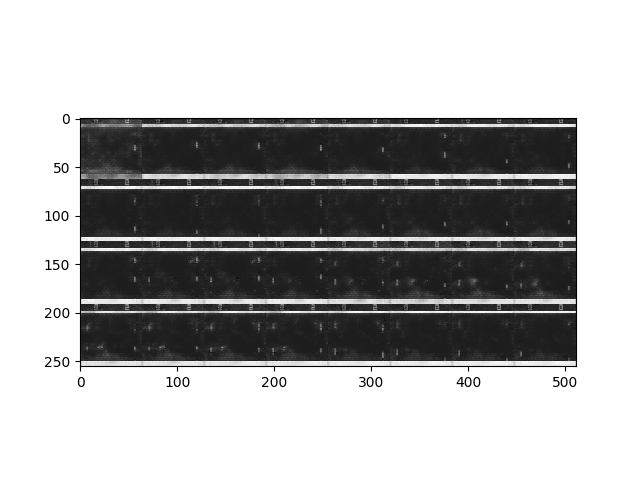
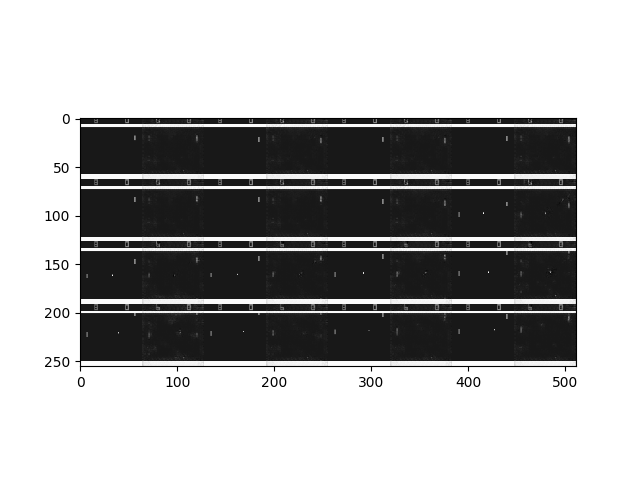
reconstruction

diff --git a/3dvae/3dvae.py b/3dvae/3dvae.py
@@ -42,7 +42,7 @@ def get_encodings(frames,model):
     return np.array([np.array(enc[i:i+32]).reshape([128,32,1]) for i in range(len(frames)-31)])
 
 def decode_seq():
-    frames = log_run(32)
+    frames = log_run(500)[-32:]
     ae = VanillaAutoencoder([None,64,64,1], 1e-3, batch_size, latent_dim)
     encodings = get_encodings(frames,ae) # [1,128,32,1]
 
@@ -52,10 +52,11 @@ def decode_seq():
     rec_frames = ae.generator(rec_enc.reshape([32,128])).reshape([32,64,64])
 
     fig = plt.figure()
-    rec_imgs = np.empty((4*h,8*w))
+    rec_imgs = np.empty((4*h,2*4*w))
     for i in range(4):
-        for j in range(8):
-            rec_imgs[i*h:(i+1)*h,j*w:(j+1)*w] = rec_frames[8*i+j]
+        for j in range(4):
+            rec_imgs[i*h:(i+1)*h,2*j*w:(2*j+1)*w] = frames[4*i+j].reshape((64,64))
+            rec_imgs[i*h:(i+1)*h,(2*j+1)*w:(2*j+2)*w] = rec_frames[4*i+j]
     plt.imshow(rec_imgs, cmap='gray')
     plt.savefig('rec_frames.png')
     plt.close(fig)
@@ -137,6 +138,6 @@ def train_ae():
 
 if __name__ == '__main__':
     #train_ae()
-    train_meta_ae()
-    #decode_seq()
+    #train_meta_ae()
+    decode_seq()
 
